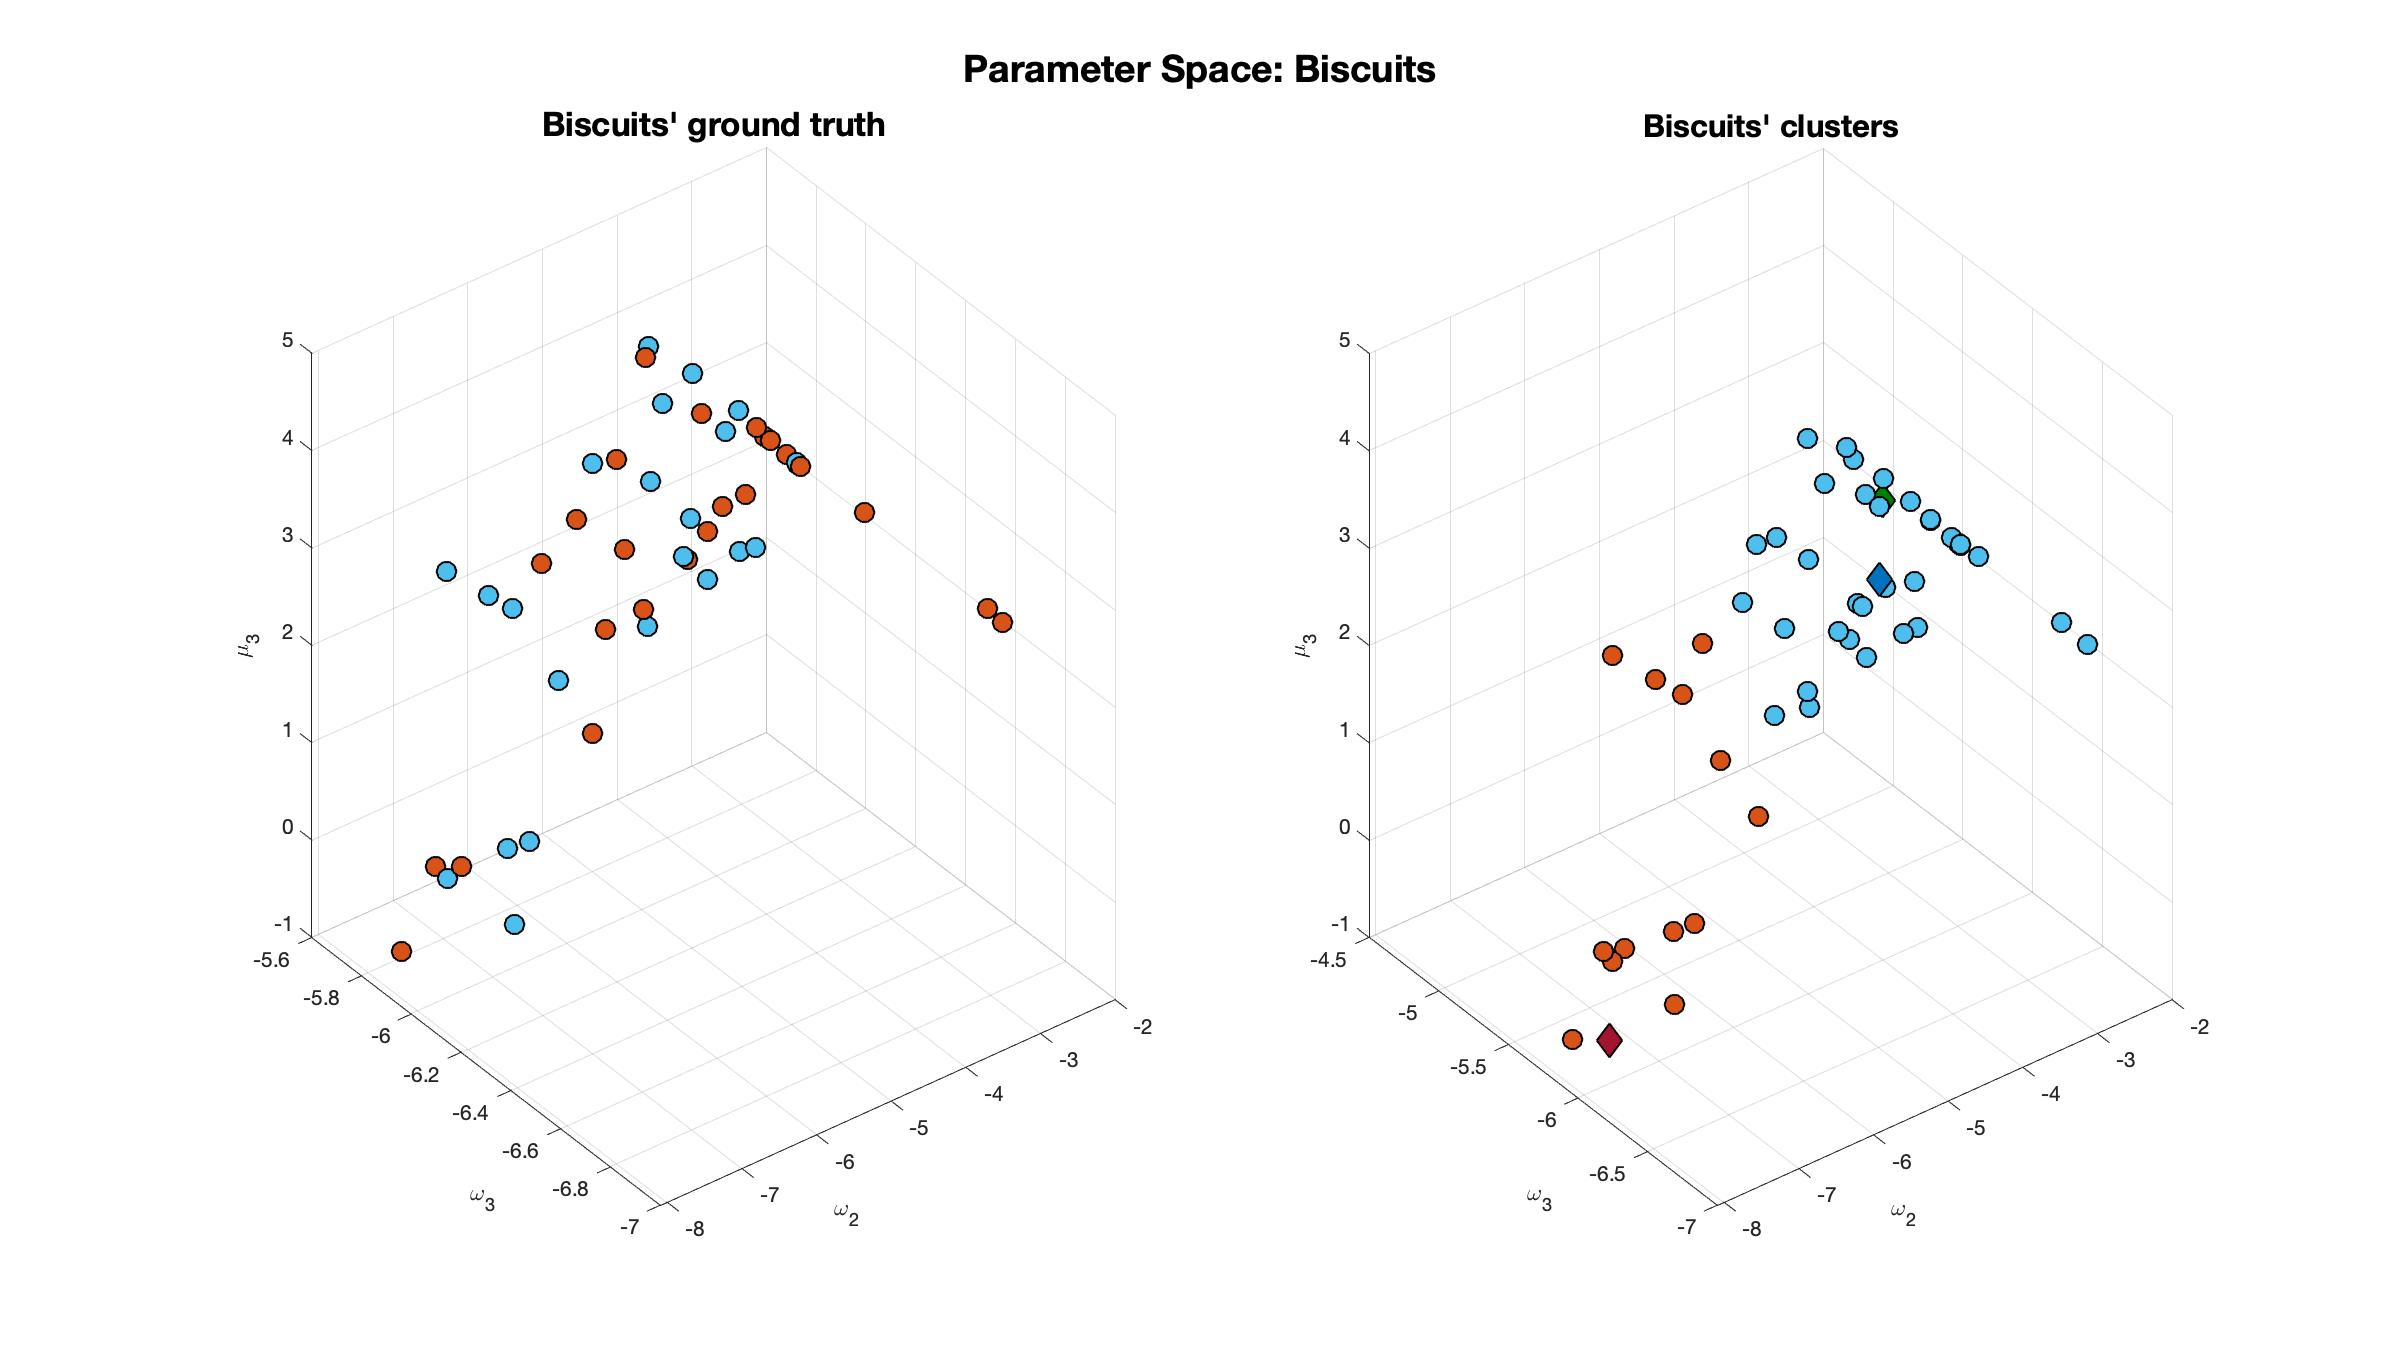
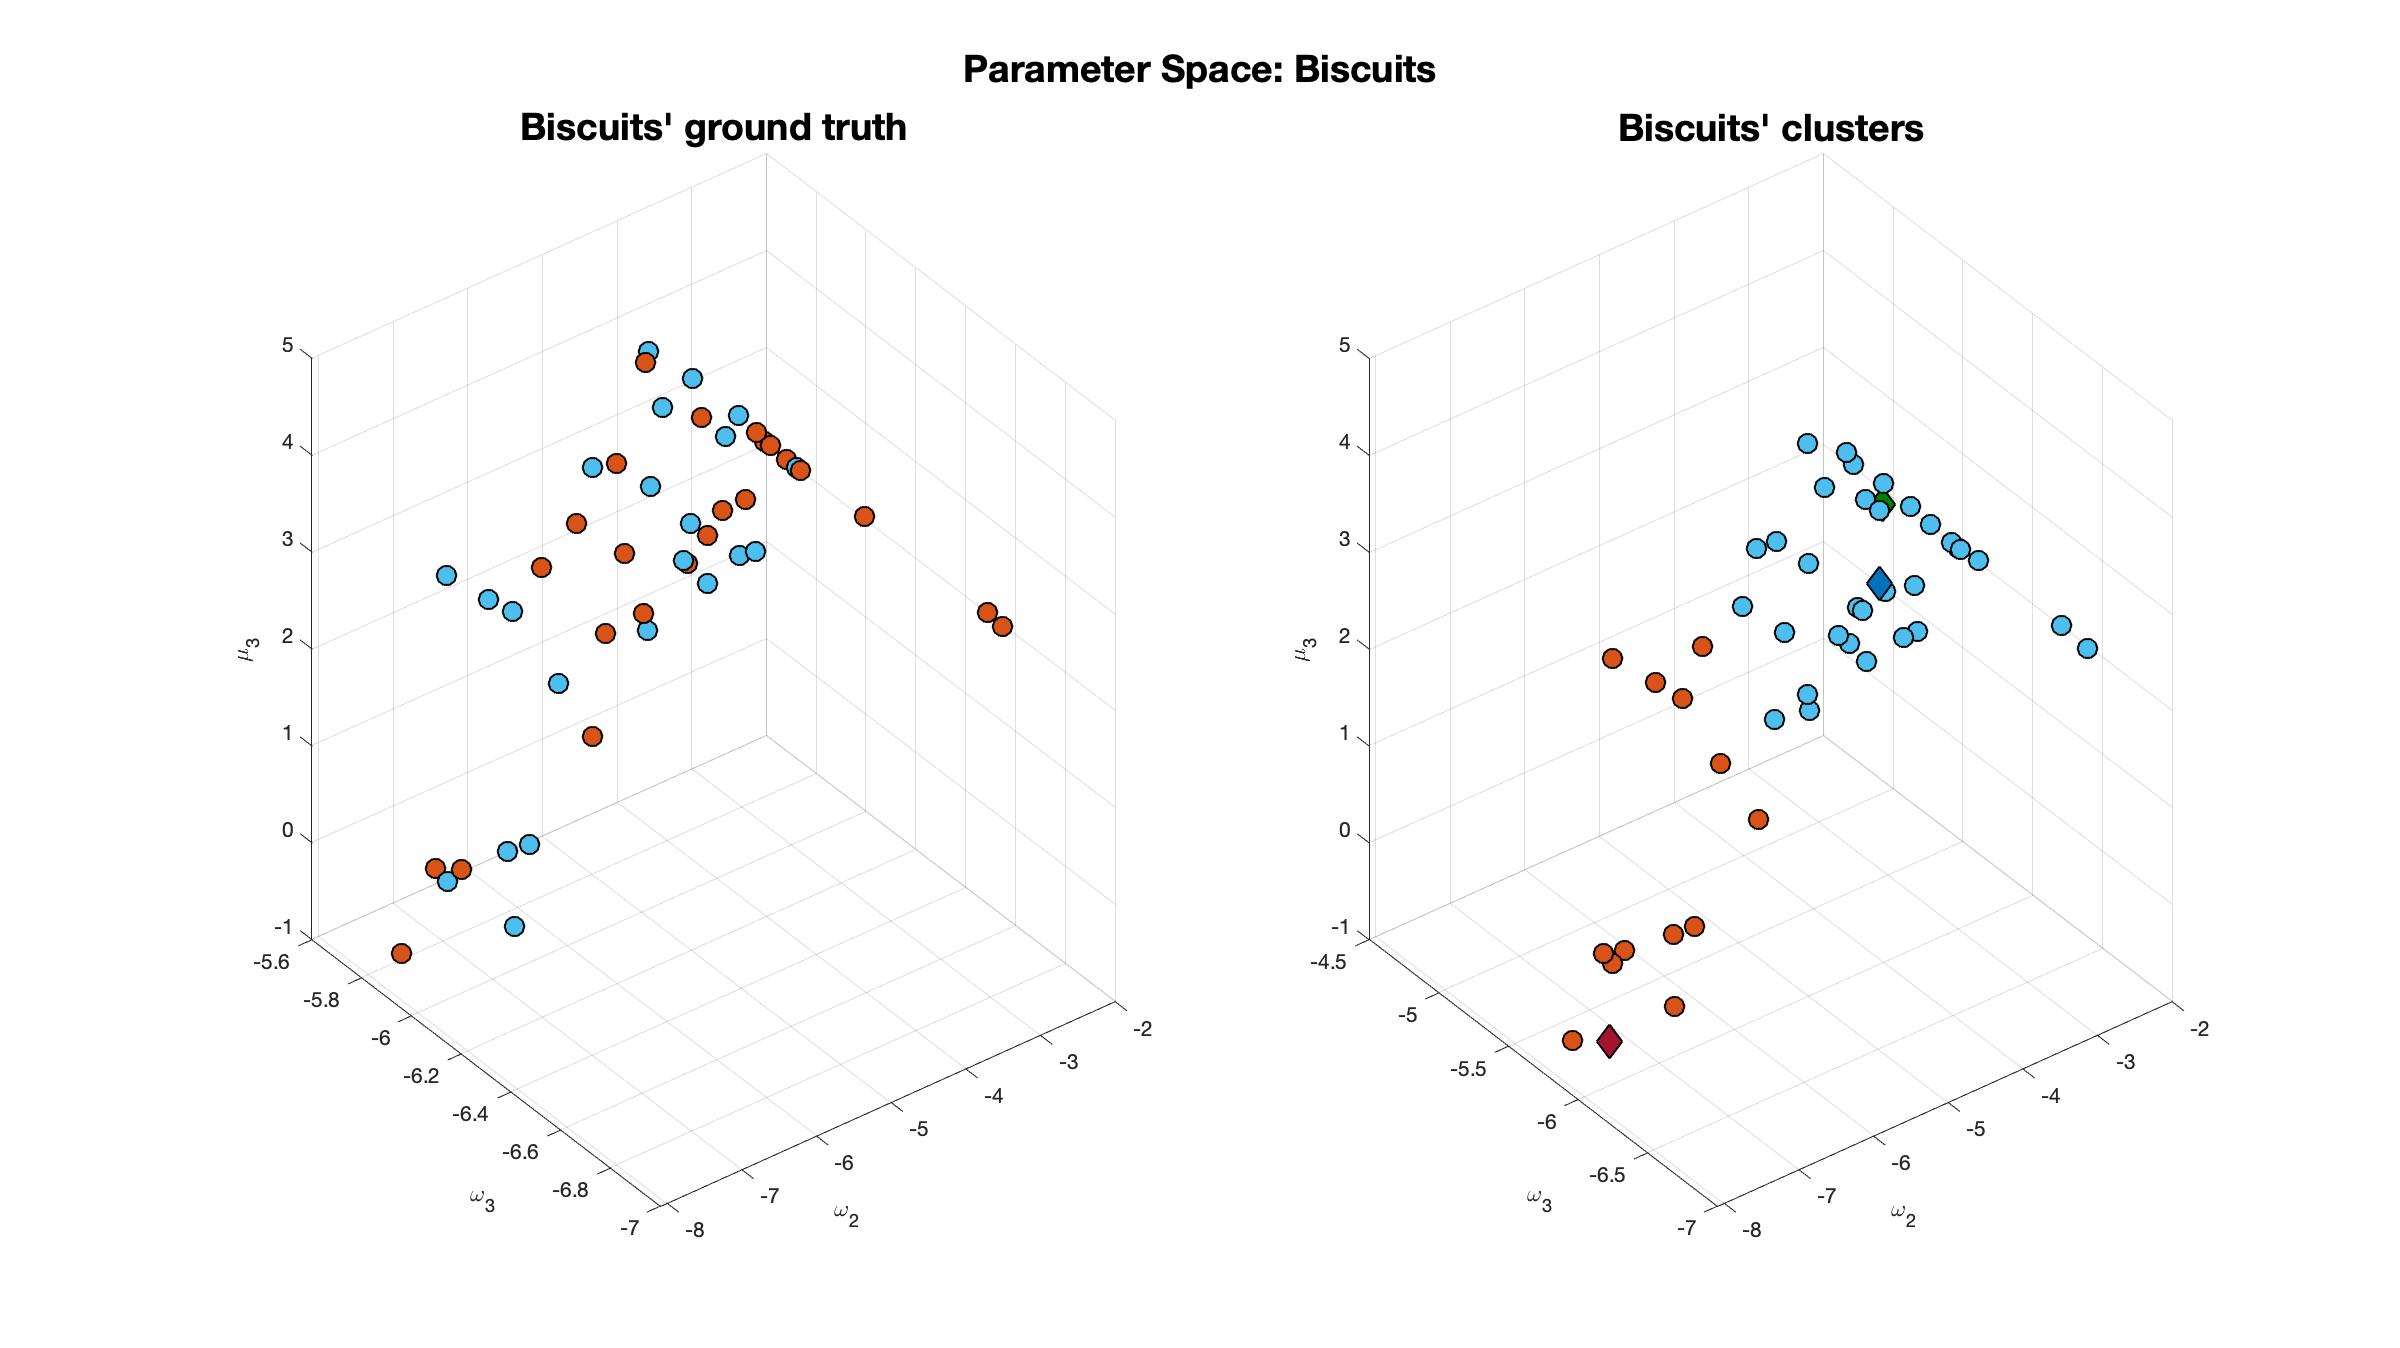
final new

diff --git a/matlab/plot_all.m b/matlab/plot_all.m
@@ -9,7 +9,7 @@ GREEN = [0,0.5,0];
 
 C_SIZE = 150;
 SIZE = 90;
-
+SAVE=1;
 %% K-Means Score based on ground truth
 fig0 = figure('Name','score');
 axes1 = axes('Parent',fig0);
@@ -38,7 +38,7 @@ scatter3(est_matrix_virus(:,1),est_matrix_virus(:,2),est_matrix_virus(:,3),SIZE,
 xlabel('\omega_2');
 ylabel('\omega_3');
 zlabel('\mu_3');
-title("Sanitizer's parameter space", 'FontSize', 15)
+title("Sanitizer's parameter space", 'FontSize', 18)
 
 subplot1=subplot(1,2,2);
 view(subplot1,[-46.9568093417894 17.8584070779964]);
@@ -46,7 +46,7 @@ scatter3(est_matrix_biscuits(:,1),est_matrix_biscuits(:,2),est_matrix_biscuits(:
 xlabel('\omega_2');
 ylabel('\omega_3');
 zlabel('\mu_3');
-title("Biscuits' parameter space", 'FontSize', 15)
+title("Biscuits' parameter space", 'FontSize', 18)
 
 %% Biscuits
 fig2 = figure('Name','biscuit', 'OuterPosition', outerpos);
@@ -66,7 +66,7 @@ scatter3(est_matrix_biscuits(:,1),est_matrix_biscuits(:,2),est_matrix_biscuits(:
 xlabel('\omega_2');
 ylabel('\omega_3');
 zlabel('\mu_3');
-title("Biscuits' ground truth", 'FontSize', 16)
+title("Biscuits' ground truth", 'FontSize', 18)
 
 subplot1=subplot(1,2,2);
 view(subplot1,[-46.9568093417894 17.8584070779964]);
@@ -87,7 +87,7 @@ hold off
 xlabel('\omega_2');
 ylabel('\omega_3');
 zlabel('\mu_3');
-title("Biscuits' clusters", 'FontSize', 15)
+title("Biscuits' clusters", 'FontSize', 18)
 
 %% Sanitizer
 fig3 = figure('Name','sanitizer', 'OuterPosition', outerpos);
@@ -107,7 +107,7 @@ scatter3(est_matrix_virus(:,1),est_matrix_virus(:,2),est_matrix_virus(:,3),SIZE,
 xlabel('\omega_2');
 ylabel('\omega_3');
 zlabel('\mu_3');
-title("Sanitizers' ground truth", 'FontSize', 15)
+title("Sanitizers' ground truth", 'FontSize', 18)
 
 subplot1 = subplot(1,2,2);
 view(subplot1,[-46.9568093417894 17.8584070779964]);
@@ -128,7 +128,7 @@ hold off
 xlabel('\omega_2');
 ylabel('\omega_3');
 zlabel('\mu_3');
-title("Sanitizers' clusters", 'FontSize', 15, 'FontWeight', 'bold')
+title("Sanitizers' clusters", 'FontSize', 18, 'FontWeight', 'bold')
 
 %% Parameter correlation
 fig4 = figure('Name','par_corr_bisc_h');
@@ -197,6 +197,6 @@ if SAVE
     saveas(fig6, ['../img/' get(fig6,'Name') '.jpg']);
     saveas(fig7, ['../img/' get(fig7,'Name') '.jpg']);
     % saveas(fig8, ['../img/' get(fig8,'Name') '.jpg']);
-    saveas(fig9, ['../img/' get(fig7,'Name') '.jpg']);
+    saveas(fig9, ['../img/' get(fig9,'Name') '.jpg']);
     close all
 end
